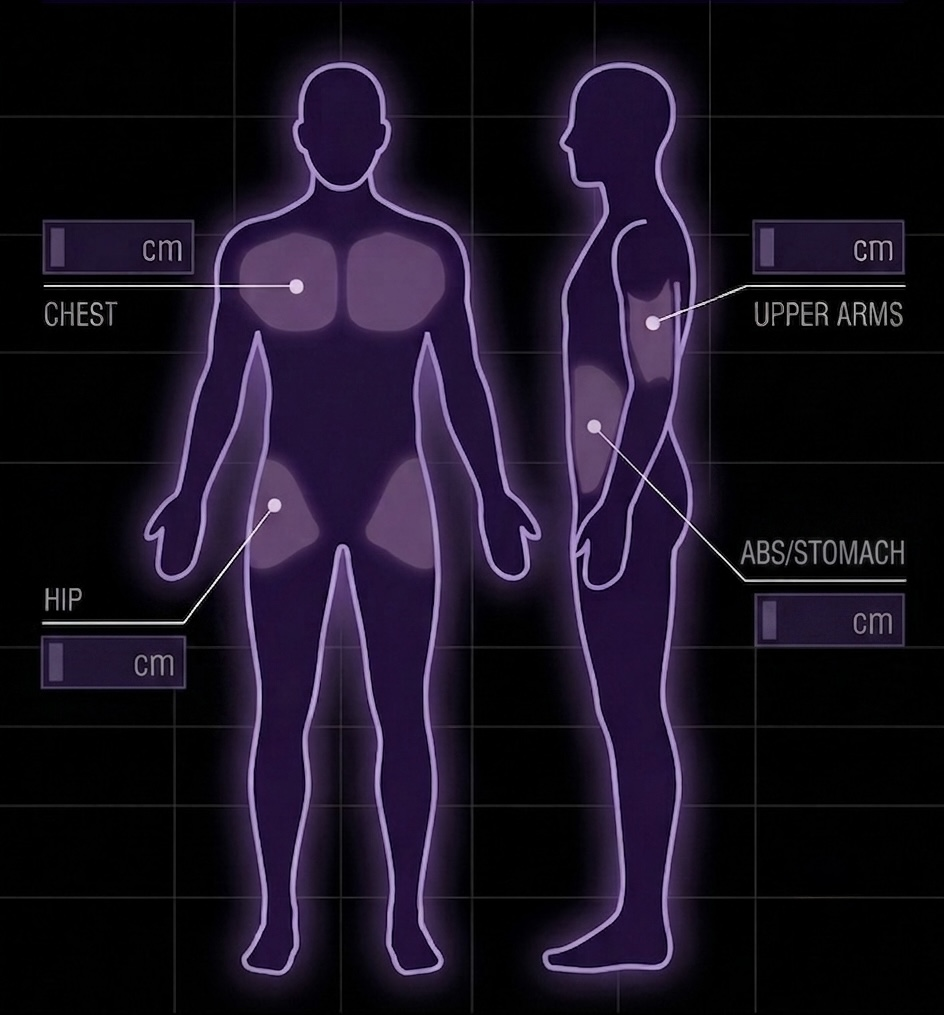
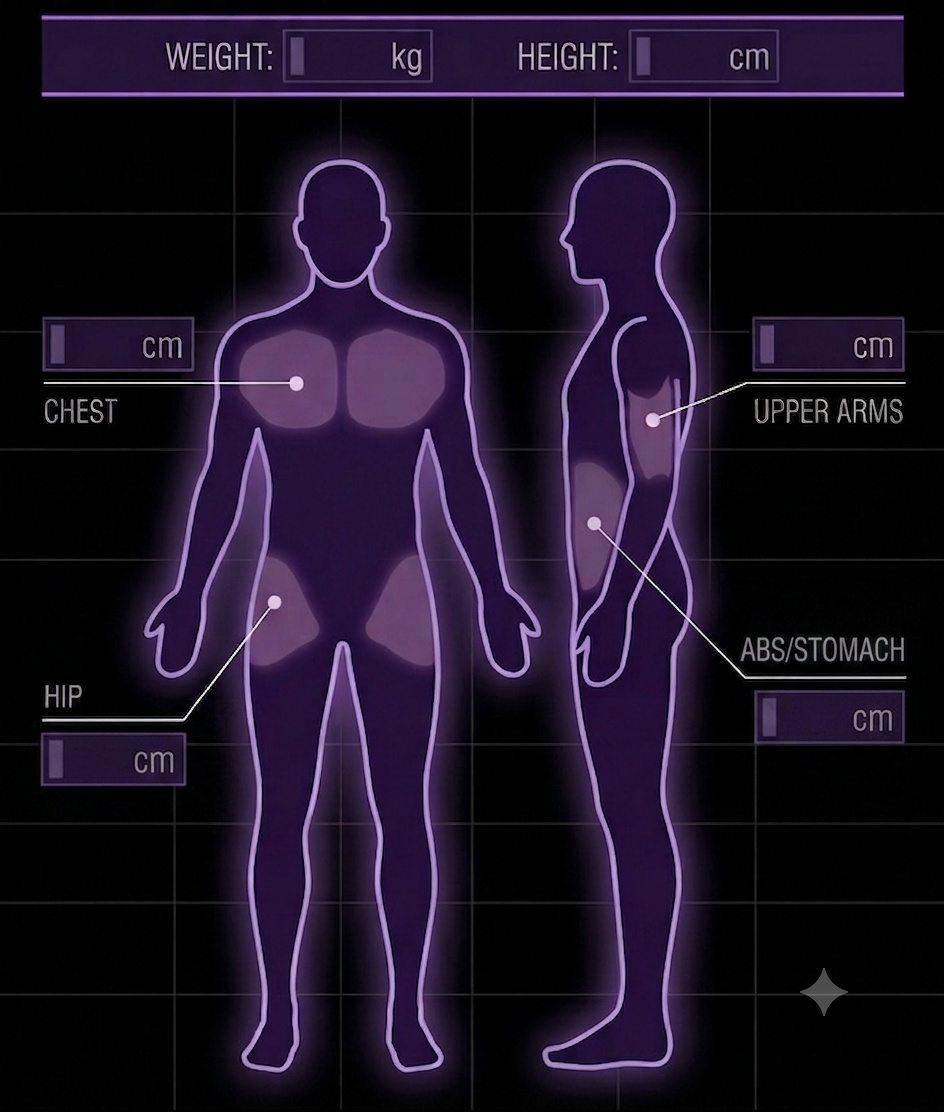
Measures: Added body hight, changed png into jpg, error correction, and db excluded from Github (now db is local only)

diff --git a/app/services/sizes.py b/app/services/sizes.py
@@ -1,9 +1,10 @@
 import os
+import re
 from PIL import Image, ImageDraw, ImageFont
 from telegram import Update, KeyboardButton, ReplyKeyboardMarkup
 from telegram.ext import ContextTypes
 
-from backend import save_body_measures, get_latest_body_measures
+from backend import save_body_measures, get_latest_body_measures, get_latest_weight
 from services.parser import parse_body_measures_input
 
 def build_measures_menu() -> ReplyKeyboardMarkup:
@@ -16,16 +17,28 @@ def build_measures_menu() -> ReplyKeyboardMarkup:
     ]
     return ReplyKeyboardMarkup(keyboard, resize_keyboard=True)
 
-def generate_body_measurements_image(chest="--", arms="--", waist="--", hip="--", output_path="/tmp/rendered_body.png"):
-    base_path = "data/body_silhouette.jpg" 
+def generate_body_measurements_image(
+    chest="--", 
+    arms="--", 
+    waist="--", 
+    hip="--", 
+    height="--", 
+    weight="--",
+    output_path="/tmp/rendered_body.jpg"
+):
+    base_path = "app/data/body_silhouette.jpg"
     
     if not os.path.exists(base_path):
-        base_path = "app/data/body_silhouette.jpg"
+        base_path = "data/body_silhouette.jpg"
         if not os.path.exists(base_path):
-            return None
+            base_path = "app/data/body_silhouette.png"
+            if not os.path.exists(base_path):
+                base_path = "data/body_silhouette.png"
+                if not os.path.exists(base_path):
+                    return None
 
     try:
-        img = Image.open(base_path).convert("RGBA")
+        img = Image.open(base_path).convert("RGB")
     except Exception as e:
         print(f"Error loading image at {base_path}: {e}")
         return None
@@ -37,41 +50,62 @@ def generate_body_measurements_image(chest="--", arms="--", waist="--", hip="--"
     except IOError:
         font = ImageFont.load_default()
 
-    text_color = (240, 230, 255, 255)
+    text_color = (240, 230, 255)
 
     coords = {
-        'chest': (72, 234),   
-        'arms': (780, 234),   
-        'waist': (780, 610),  
-        'hip': (68, 648)
+        'weight': (323, 45),
+        'height': (664, 45),
+        'chest': (76, 334),   
+        'arms': (787, 334),   
+        'waist': (787, 705),
+        'hip': (76, 748)
     }
 
+    draw.text(coords['weight'], str(weight), fill=text_color, font=font)
+    draw.text(coords['height'], str(height), fill=text_color, font=font)
     draw.text(coords['chest'], str(chest), fill=text_color, font=font)
     draw.text(coords['arms'], str(arms), fill=text_color, font=font)
-    draw.text(coords['hip'], str(hip), fill=text_color, font=font)
     draw.text(coords['waist'], str(waist), fill=text_color, font=font)
+    draw.text(coords['hip'], str(hip), fill=text_color, font=font)
 
-    img.save(output_path)
+    img.save(output_path, "JPEG", quality=92)
     return output_path
 
-def get_body_image():
+def get_body_image(user_height: int = 175):
     chest, arms, waist, hip = get_latest_body_measures()
+    latest_w = get_latest_weight()
 
     chest_val = str(int(round(chest))) if chest is not None else "--"
     arms_val = str(int(round(arms))) if arms is not None else "--"
     waist_val = str(int(round(waist))) if waist is not None else "--"
     hip_val = str(int(round(hip))) if hip is not None else "--"
+    height_val = str(user_height) if user_height is not None else "--"
+    weight_val = str(int(round(latest_w))) if latest_w is not None else "--"
 
     return generate_body_measurements_image(
         chest=chest_val,
         arms=arms_val,
         waist=waist_val,
-        hip=hip_val
+        hip=hip_val,
+        height=height_val,
+        weight=weight_val
     )
 
-async def send_measures_overview(update: Update):
-    image_path = get_body_image()
-    caption_text = "📐 BODY MEASURES\n\nAdjust measurements by using the menu below or type inputs directly anywhere, including bodypart and size in centimeters.\nExample: 134 Chest"
+async def send_measures_overview(update: Update, context: ContextTypes.DEFAULT_TYPE):
+    current_height = context.user_data.get('user_height', 175)
+    image_path = get_body_image(user_height=current_height)
+    
+    caption_text = (
+        "📐 BODY MEASURES\n\n"
+        "Please set your height in centimeters if not already set.\n"
+        "• 180 cm\n"
+        "• length 180\n"
+        "• size 180\n\n"
+        "Adjust measurements using the menu buttons below.\n"
+        "Or set them manually like:\n"
+        "• 131 Chest\n"
+        "• Stomach -3"
+    )
     
     if image_path and os.path.exists(image_path):
         with open(image_path, 'rb') as photo:
@@ -90,8 +124,8 @@ async def handle_sizes_command(update: Update, context: ContextTypes.DEFAULT_TYP
     text = update.message.text.strip()
     text_lower = text.lower()
 
-    if text_lower in ["📐 measures", "measures"]:
-        await send_measures_overview(update)
+    if text_lower in ["📐 measures", "measures", "sizes"]:
+        await send_measures_overview(update, context)
         return True
 
     measure_adjustments = {
@@ -109,14 +143,38 @@ async def handle_sizes_command(update: Update, context: ContextTypes.DEFAULT_TYP
         part_name, delta = measure_adjustments[text_lower]
         chest, arms, waist, hip = get_latest_body_measures()
 
-        c = (chest or 134.0) + delta if part_name == "chest" else chest
-        a = (arms or 49.0) + delta if part_name == "arms" else arms
-        w = (waist or 110.0) + delta if part_name == "waist" else waist
-        h = (hip or 131.0) + delta if part_name == "hip" else hip
+        current_chest = float(chest) if chest is not None else 0.0
+        current_arms = float(arms) if arms is not None else 0.0
+        current_waist = float(waist) if waist is not None else 0.0
+        current_hip = float(hip) if hip is not None else 0.0
 
-        save_body_measures(c, a, w, h)
-        await send_measures_overview(update)
+        if part_name == "chest":
+            current_chest += delta
+        elif part_name == "arms":
+            current_arms += delta
+        elif part_name == "waist":
+            current_waist += delta
+        elif part_name == "hip":
+            current_hip += delta
+
+        save_body_measures(chest=current_chest, arms=current_arms, waist=current_waist, hip=current_hip)
+        await send_measures_overview(update, context)
         return True
+
+    is_height_keyword = any(kw in text_lower for kw in ["length", "size", "height", "cm"])
+
+    if is_height_keyword:
+        height_match = re.search(r'\b(1[4-9][0-9]|2[0-2][0-9])\b', text_lower)
+        if height_match:
+            new_height = int(height_match.group(1))
+            context.user_data['user_height'] = new_height
+            
+            await update.message.reply_text(
+                f"📏 Height updated to **{new_height} cm**!",
+                parse_mode="Markdown"
+            )
+            await send_measures_overview(update, context)
+            return True
 
     parsed_measures = parse_body_measures_input(text)
     if parsed_measures:
@@ -125,10 +183,12 @@ async def handle_sizes_command(update: Update, context: ContextTypes.DEFAULT_TYP
         w = parsed_measures.get('waist')
         h = parsed_measures.get('hip')
         
-        new_c, new_a, new_w, new_h = save_body_measures(c, a, w, h)
+        new_c, new_a, new_w, new_h = save_body_measures(chest=c, arms=a, waist=w, hip=h)
         
+        current_height = context.user_data.get('user_height', 175)
         reply = (
             "📐 Body Measurements Recorded!\n\n"
+            f"• Height: {current_height} cm\n"
             f"• Chest: {int(round(new_c)) if new_c is not None else 'N/A'} cm\n"
             f"• Arms: {int(round(new_a)) if new_a is not None else 'N/A'} cm\n"
             f"• Waist: {int(round(new_w)) if new_w is not None else 'N/A'} cm\n"

diff --git a/app/frontend.py b/app/frontend.py
@@ -93,7 +93,6 @@ def build_nutrients_menu() -> ReplyKeyboardMarkup:
 def build_weight_menu(height_cm: int) -> ReplyKeyboardMarkup:
     keyboard = [
         [KeyboardButton("🧮 Ideal Weight Calculator")],
-        [KeyboardButton(f"📏 Set Height ({height_cm} cm)")],
         [KeyboardButton("⬅ Back to Main Menu")]
     ]
     return ReplyKeyboardMarkup(keyboard, resize_keyboard=True)
@@ -130,16 +129,16 @@ async def start_command(update: Update, context: ContextTypes.DEFAULT_TYPE) -> N
         return
 
     welcome_text = (
-        "Welcome to Fitness Trainer V2.1!\n\n"
+        "Welcome to Fitness Trainer V2.3!\n\n"
         "Use the menu below to navigate.\n\n"
-        "Update your weight by type direct inputs like:\n"
+        "Update your weight by typing direct inputs like:\n"
         "• 92 kg\n"
         "• 84.5 kg\n"
-        "• 11,500 gram\n\n"
+        "• 11,500 g\n\n"
         "To avoid working out specific body parts type:\n"
         "[Cramps | Pain | Acidity | Soreness]\n"
-        "And comine it with a body part like:\n"
-        "[Arms | Chest | Chest | Legs | Stomach | Glutes]"
+        "And combine it with a body part like:\n"
+        "[Arms | Chest | Legs | Stomach | Glutes]"
     )
     await update.message.reply_text(welcome_text, reply_markup=build_main_menu())
 
@@ -162,25 +161,6 @@ async def text_input_parser(update: Update, context: ContextTypes.DEFAULT_TYPE) 
 
         if await handle_sizes_command(update, context):
             return
-
-        if context.user_data.get('awaiting_height'):
-            height_match = re.search(r'\b(1[4-9][0-9]|2[0-2][0-9])\b', text_lower)
-            if height_match:
-                new_height = int(height_match.group(1))
-                context.user_data['user_height'] = new_height
-                context.user_data['awaiting_height'] = False
-                await update.message.reply_text(
-                    f"📏 Height updated to **{new_height} cm**!",
-                    parse_mode="Markdown",
-                    reply_markup=build_weight_menu(new_height)
-                )
-                return
-            else:
-                await update.message.reply_text(
-                    "Please enter a valid height in cm (e.g. 175).",
-                    reply_markup=build_weight_menu(context.user_data.get('user_height', 175))
-                )
-                return
 
         if text_lower == "🧮 ideal weight calculator":
             context.user_data['calc_step'] = 'frame'
@@ -253,14 +233,6 @@ async def text_input_parser(update: Update, context: ContextTypes.DEFAULT_TYPE) 
                         reply_markup=build_main_menu()
                     )
                 return
-
-        if "set height" in text_lower:
-            context.user_data['awaiting_height'] = True
-            await update.message.reply_text(
-                "📏 Please type your height in centimeters (e.g. 175):",
-                reply_markup=build_weight_menu(context.user_data.get('user_height', 175))
-            )
-            return
 
         if text_lower == "🏊 pool status":
             is_hol = context.user_data.get('pool_holiday', False)

diff --git a/app/backend.py b/app/backend.py
@@ -114,6 +114,17 @@ def save_weight_and_get_ewma(weight: float):
 
     return daily_avg, latest_ewma
 
+def get_latest_weight():
+    conn = get_connection()
+    cursor = conn.cursor()
+    cursor.execute("SELECT weight_kg FROM weight_logs ORDER BY id DESC LIMIT 1")
+    row = cursor.fetchone()
+    conn.close()
+
+    if row and row['weight_kg'] is not None:
+        return row['weight_kg']
+    return None
+
 def get_recent_weight_logs(limit: int = 14):
     conn = get_connection()
     df = pd.read_sql_query(f"SELECT date_logged, weight_kg FROM weight_logs ORDER BY id DESC LIMIT {limit}", conn)
@@ -153,10 +164,10 @@ def save_body_measures(chest=None, arms=None, waist=None, hip=None):
     cursor.execute("SELECT chest_cm, arms_cm, waist_cm, hip_cm FROM body_measures_logs ORDER BY id DESC LIMIT 1")
     row = cursor.fetchone()
 
-    last_chest = row['chest_cm'] if row and row['chest_cm'] is not None else 134.0
-    last_arms = row['arms_cm'] if row and row['arms_cm'] is not None else 49.0
-    last_waist = row['waist_cm'] if row and row['waist_cm'] is not None else 110.0
-    last_hip = row['hip_cm'] if row and row['hip_cm'] is not None else 131.0
+    last_chest = row['chest_cm'] if row else None
+    last_arms = row['arms_cm'] if row else None
+    last_waist = row['waist_cm'] if row else None
+    last_hip = row['hip_cm'] if row else None
 
     new_chest = chest if chest is not None else last_chest
     new_arms = arms if arms is not None else last_arms
@@ -180,9 +191,8 @@ def get_latest_body_measures():
     row = cursor.fetchone()
     conn.close()
 
-    if row and any(v is not None for v in [row['chest_cm'], row['arms_cm'], row['waist_cm'], row['hip_cm']]):
+    if row:
         return row['chest_cm'], row['arms_cm'], row['waist_cm'], row['hip_cm']
     
-    # Standardwerte initialisieren, falls Datenbank noch leer ist
-    return save_body_measures(134.0, 49.0, 151.0, 131.0)
+    return None, None, None, None
 
